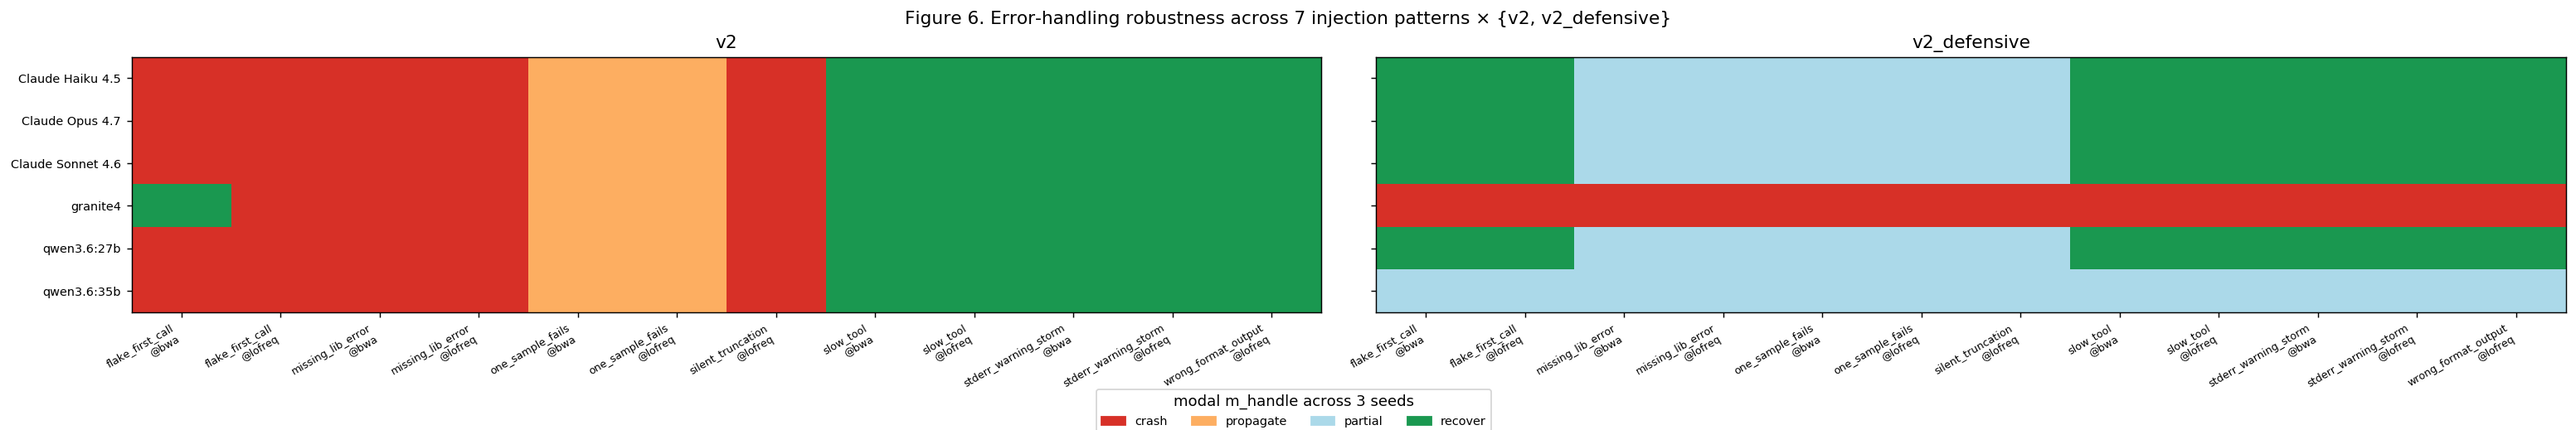
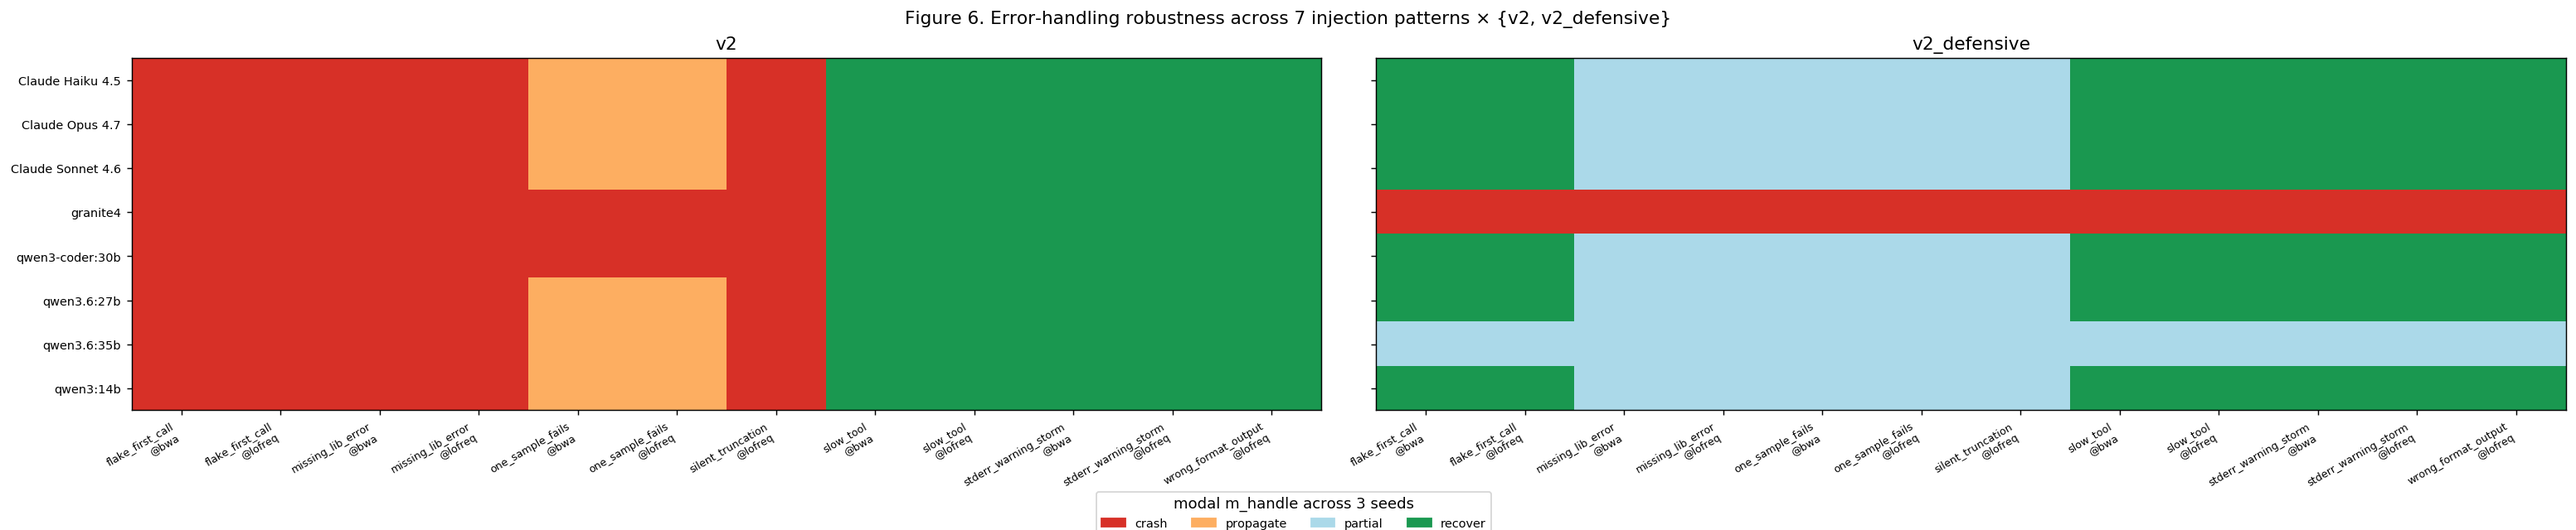
Section 2.6: incorporate Scott Cain's M4 PR — six-model frontier tier
Pulled PR #2 (M4 48 GB error-handling matrix). Three of the five
ollama models in Scott's run produced clean data; two (qwen3.6:27b
and qwen3.6:35b-a3b) hit Ollama HTTP 500 across every cell, and
the Anthropic side died after Opus's first 45 cells (looks like a
quota hit). Discarding the broken cells leaves 234 usable M4 rows
across qwen3:14b, qwen3-coder:30b, and granite4.

The substantive new finding: the Jetson §2.6 frontier tier (Opus,
Sonnet, Haiku, qwen3.6:27b at 21 / 14-15 / 0 / 0-1) extends to two
more open-weight dense models tested on M4:

  qwen3:14b / v2_defensive      21 / 15 / 0 / 0   (n=36)
  qwen3-coder:30b / v2_defensive 21 / 15 / 0 / 0   (n=36)

Six models in the frontier tier now, three of them free open-weight
dense Qwen-family models from 9 to 18 GB. The Anthropic-and-open-
weight tier boundary that originally separated the Jetson §2.6
result collapses.

Cross-platform consistency:
  granite4 / v2_defensive       Jetson 0/0/0/36 == M4 0/0/0/36
  qwen3-coder:30b / v2          M4 has 0 propagate / 21 crash
                                (canonical is 6 / 15) — stylistic
                                difference: it crashes outright on
                                one_sample_fails instead of letting
                                set -e fire after three samples
                                succeed. Same modal handle for fig6.

Changes:

  scripts/make_figures.py  collect_inject_runs reads from
[…]

diff --git a/scripts/make_figures.py b/scripts/make_figures.py
@@ -348,8 +348,15 @@ PLAN_DISPLAY = {
 
 
 def collect_inject_runs(runs_dir: Path):
-    """Return DataFrame of all injection runs with handle/recover/diagnose."""
+    """Return DataFrame of all injection runs with handle/recover/diagnose.
+    Reads per-run dirs under runs_dir, then augments with rows from any
+    error_matrix_*.jsonl files at the repo root that aren't already covered
+    (lets us pick up cross-platform results contributed via PR — e.g. an
+    M4 run that only landed the JSONL log, not the per-run dirs)."""
     rows = []
+    seen_run_ids = set()
+
+    # Primary source: per-run dirs (have full meta.json + score.json)
     for d in runs_dir.glob("*_track-A_seed-*"):
         sj = d / "score.json"
         if not sj.exists():
@@ -366,11 +373,62 @@ def collect_inject_runs(runs_dir: Path):
             "target":  eh.get("inject_target", ""),
             "plan":    PLAN_DISPLAY.get(plan_name, plan_name),
             "seed":    meta.get("seed"),
+            "hardware": "jetson",
             "handle":  eh.get("m_handle"),
             "recover": eh.get("m_recover"),
             "diagnose": eh.get("m_diagnose"),
             "M3":      s.get("m3_jaccard"),
         })
+        seen_run_ids.add(meta.get("run_id"))
+
+    # Augment from JSONL summary logs (covers cross-platform PRs)
+    for jsonl in BENCH.glob("error_matrix_*.jsonl"):
+        # Hardware tag from filename suffix
+        name = jsonl.stem
+        if name.endswith("_m4"):
+            hw = "m4"
+        elif name.endswith("_a5000"):
+            hw = "a5000"
+        else:
+            hw = "jetson"
+        for line in jsonl.read_text().splitlines():
+            if not line.strip():
+                continue
+            r = json.loads(line)
+            if "error" in r:
+                continue
+            if r.get("run_id") in seen_run_ids:
+                continue
+            cell = r.get("cell", "")
+            parts = cell.split("/")
+            if len(parts) < 4:
+                continue
+            model, plan, pattern_at_target, seed_str = parts[0], parts[1], parts[2], parts[3]
+            if "@" not in pattern_at_target:
+                continue
+            pattern, target = pattern_at_target.split("@", 1)
+            if pattern == "none":
+                continue
+            try:
+                seed = int(seed_str.replace("seed-", ""))
+            except ValueError:
+                seed = None
+            if r.get("m_handle") is None:
+                continue
+            rows.append({
+                "model":   model.replace(":", "_"),
+                "pattern": pattern,
+                "target":  target,
+                "plan":    plan,
+                "seed":    seed,
+                "hardware": hw,
+                "handle":  r.get("m_handle"),
+                "recover": r.get("m_recover"),
+                "diagnose": r.get("m_diagnose"),
+                "M3":      r.get("M3"),
+            })
+            if r.get("run_id"):
+                seen_run_ids.add(r["run_id"])
     return pd.DataFrame(rows)
 
 

diff --git a/README.md b/README.md
@@ -14,7 +14,7 @@ Four findings.
 
 **No recipe means no work.** Without any recipe, every local model scores M3 = 0. Anthropic models score M3 ≥ 0.67 from what they already know. Local models cannot recover this workflow on their own.
 
-**Error handling needs its own prose.** We broke `bwa` or `lofreq` in seven ways and re-ran the matrix on the regular recipe and on one that adds defensive prose (v2_defensive). Without that prose, every model — Opus and granite4 alike — wrote the same brittle script. With it, three tiers appeared: **Opus, Sonnet, Haiku, and `qwen3.6:27b`** all wrote clean defensive bash with the same per-pattern outcome distribution (21 recover / 14–15 partial / 0–1 crash, n=36 each). `qwen3.6:35b` (a different model from the same family) wrote the right structure but its retries succeeded less often, ending in *detect-and-skip*. `granite4` (2 GB) crashed on all 36 cells, unable to write a working `try()` helper. One useful caveat: a script that "recovered" still shipped junk if the recipe asked only that the file parse, not that it contain anything.
+**Error handling needs its own prose.** We broke `bwa` or `lofreq` in seven ways and ran the matrix twice — once on the regular recipe (v2) and once on a defensive variant (v2_defensive). Without the defensive prose, every model wrote the same brittle script: Opus and granite4 had the same 15 / 0 / 6 / 15 handle distribution. With it, three tiers appeared. **Six models** — Opus, Sonnet, Haiku, qwen3.6:27b, qwen3:14b, and qwen3-coder:30b — share a top tier: 21 recover / 14–15 partial / 0–1 crash. The Anthropic-and-open-weight tier boundary collapses; three free dense Qwen-family models from 9 to 18 GB sit alongside the three Anthropic tiers. One step down, `qwen3.6:35b` writes the right defensive structure but its retries succeed less often (7 recover / 29 partial). At the floor, `granite4` (2 GB) crashed on all 36 cells, unable to produce a working `try()` helper — confirmed on two hardware platforms. One useful caveat: a script that "recovered" still shipped junk if the recipe asked only that the file parse, not that it contain anything.
 
 The headline: detail in the recipe — both for the happy path and for error handling — is what local execution needs. Model class and hardware are not what limit performance.
 
@@ -123,7 +123,7 @@ Panel B shows the Jetson sweep at 30 W (the original 9-of-14 passers, in green) 
 
 Sections 2.1 to 2.5 measured the happy path. This section measures what the same models do when a tool misbehaves.
 
-We ran 468 cells: 6 models × 7 injection patterns × 1–2 target tools × 2 recipe variants × 3 seeds. The trick is **PATH shimming**. Before each run, the harness drops two short shell wrappers — one named `bwa`, one named `lofreq` — into a per-run directory and puts that directory at the front of `PATH`. When the script types `bwa mem`, bash finds the wrapper first and runs it instead of the real bwa. The wrapper reads two environment variables (`EVAL_INJECT_PATTERN`, `EVAL_INJECT_TARGET`) and either passes the call through to the real binary or simulates a failure. The model's `run.sh` doesn't know.
+We ran 468 cells on the Jetson at full power, plus a partial 624-cell replication on a 48 GB MacBook M4 contributed via PR (Scott Cain), of which 234 cells across three open-weight models landed cleanly. Total usable: 702 cells, 6 models × 7 injection patterns × 1–2 target tools × 2 recipe variants × 3 seeds (Jetson) plus three M4 model rows (qwen3:14b, qwen3-coder:30b, granite4 cross-platform). The trick is **PATH shimming**. Before each run, the harness drops two short shell wrappers — one named `bwa`, one named `lofreq` — into a per-run directory and puts that directory at the front of `PATH`. When the script types `bwa mem`, bash finds the wrapper first and runs it instead of the real bwa. The wrapper reads two environment variables (`EVAL_INJECT_PATTERN`, `EVAL_INJECT_TARGET`) and either passes the call through to the real binary or simulates a failure. The model's `run.sh` doesn't know.
 
 Seven failure patterns. Each one targets bwa, lofreq, or both. Concrete effect on the script in each case:
 
@@ -151,11 +151,11 @@ Three new scores on top of M3:
 
 **v2 is identical across model classes.** Without error-handling prose, every model writes the same brittle script. Opus, Sonnet, Haiku, qwen3.6:27b, and qwen3.6:35b all crash on `flake_first_call`, `missing_lib_error`, and `silent_truncation`; all "recover" on `slow_tool` and `stderr_warning_storm` (waiting and ignoring noise both work); all `propagate` on `one_sample_fails` (set -e fires after three samples have already succeeded). Per-(model, plan) handle counts on v2 are **exactly** 15 recover / 0 partial / 6 propagate / 15 crash (n = 36) for **five of the six models**. Granite4 lands at 12 / 0 / 4 / 20 — a few extra crashes because it sometimes fails to write a parseable script even on the cosmetic patterns. Five rows in Figure 6's left panel are visually indistinguishable. The recipe alone does not make code defensive.
 
-**v2_defensive splits the field into three tiers.** Two of those tiers contain models from different classes:
+**v2_defensive splits the field into three tiers.** Two of those tiers contain models from different classes; six models share the top tier.
 
-- **Frontier-tier (Opus, Sonnet, Haiku, *and* qwen3.6:27b).** Each implements the `try()` helper faithfully. Zero or one crashes across 36 cells. The four rows are visually identical in Figure 6's right panel. Counts: 21 recover / 14–15 partial / 0–1 crash (n = 36 each). Concrete: on `flake_first_call@bwa`, all four models score M3 = 1.000 across every seed — the first bwa call fails, `try` retries, the second succeeds, the BAM appears. **A free, locally-runnable 17 GB dense model lands in the same defensive-bash tier as Claude Opus.** This is the only finding in the paper that elevates a free open-weight model into the frontier-Anthropic distribution on a *task* metric, not just a happy-path score.
-- **`qwen3.6:35b`.** Writes the same defensive structure but recovers less often. Same `flake_first_call@bwa` cells: M3 = 0.333. One seed of three recovered; the other two ended in `partial` — `try` ran but the BAM never showed up. Zero crashes; partials dominate (29 of 36 cells). The 35b dense model from the same family does not match the 27b dense.
-- **`granite4`.** All 36 v2_defensive cells crash. The 2 GB model that handles v2 cleanly cannot produce a working `try() { ... }` plus per-sample-loop `continue` in bash. This is the floor for defensive scripting; it sits well below the floor for happy-path scripting.
+- **Frontier-tier — six models.** Opus, Sonnet, Haiku, qwen3.6:27b (all Jetson), plus qwen3:14b and qwen3-coder:30b (M4 PR from Scott Cain). Each implements the `try()` helper faithfully. Zero or one crashes across 36 cells. All six rows look the same in Figure 6's right panel. Counts: 21 recover / 14–15 partial / 0–1 crash (n = 36 each). Concrete: on `flake_first_call@bwa`, every one of the six models scores M3 = 1.000 across every seed — the first bwa call fails, `try` retries, the second succeeds, the BAM appears. **Three free, locally-runnable open-weight dense models — qwen3.6:27b at 17 GB, qwen3:14b at 9 GB, and qwen3-coder:30b at 18 GB — share the defensive-bash tier with Claude Opus.** The tier is not "Anthropic vs open-weight"; it is a stable cluster of trained-out-of-the-box defensive coding ability that contains four open-weight dense models (three from the Qwen family) and three Anthropic models.
+- **`qwen3.6:35b`.** Writes the same defensive structure but recovers less often. Same `flake_first_call@bwa` cells: M3 = 0.333. One seed of three recovered; the other two ended in `partial` — `try` ran but the BAM never showed up. Zero crashes; partials dominate (29 of 36 cells). A larger dense model from the same family as qwen3.6:27b does *not* match the 27b dense.
+- **`granite4`.** All 36 v2_defensive cells crash on Jetson. Confirmed on M4 by Scott's PR. The 2 GB model that handles v2 cleanly cannot produce a working `try() { ... }` plus per-sample-loop `continue` in bash. This is the floor for defensive scripting; it sits well below the floor for happy-path scripting, and it does not depend on hardware.
 
 **Pattern shape matters as much as model class.** Three patterns are not recoverable in principle and stay broken even on v2_defensive: `missing_lib_error` (the workflow cannot proceed without `libhts.so.3`), `silent_truncation`, and `wrong_format_output` (both produce files that look structurally valid but contain no real calls; a script can at best skip the bad sample). The other four patterns — `flake_first_call`, `slow_tool`, `stderr_warning_storm`, `one_sample_fails` — are fully recoverable: an aware script retries, waits, ignores, or skips. `m_recover` captures the difference.
 
@@ -175,10 +175,16 @@ Headline counts:
 | Claude Haiku 4.5 / v2_defensive | 21 | 15 | 0 | 0 | 36 |
 | **qwen3.6:27b / v2** | **15** | **0** | **6** | **15** | **36** |
 | **qwen3.6:27b / v2_defensive** | **21** | **15** | **0** | **0** | **36** |
+| **qwen3:14b / v2 (M4)** | **15** | **0** | **6** | **15** | **36** |
+| **qwen3:14b / v2_defensive (M4)** | **21** | **15** | **0** | **0** | **36** |
+| **qwen3-coder:30b / v2 (M4)** | 15 | 0 | 0 | **21** | 36 |
+| **qwen3-coder:30b / v2_defensive (M4)** | **21** | **15** | **0** | **0** | **36** |
 | qwen3.6:35b / v2 | 15 | 0 | 6 | 15 | 36 |
 | qwen3.6:35b / v2_defensive | 7 | 29 | 0 | 0 | 36 |
-| granite4 / v2 | 12 | 0 | 4 | 20 | 36 |
-| granite4 / v2_defensive | 0 | 0 | 0 | 36 | 36 |
+| granite4 / v2 (Jetson) | 12 | 0 | 4 | 20 | 36 |
+| granite4 / v2_defensive (Jetson) | 0 | 0 | 0 | 36 | 36 |
+| granite4 / v2 (M4) | 5 | 0 | 0 | 31 | 36 |
+| granite4 / v2_defensive (M4) | 0 | 0 | 0 | 36 | 36 |
 
 n=36 = 12 (pattern, tool) cells × 3 seeds; baseline (no-injection) cells excluded.
 
